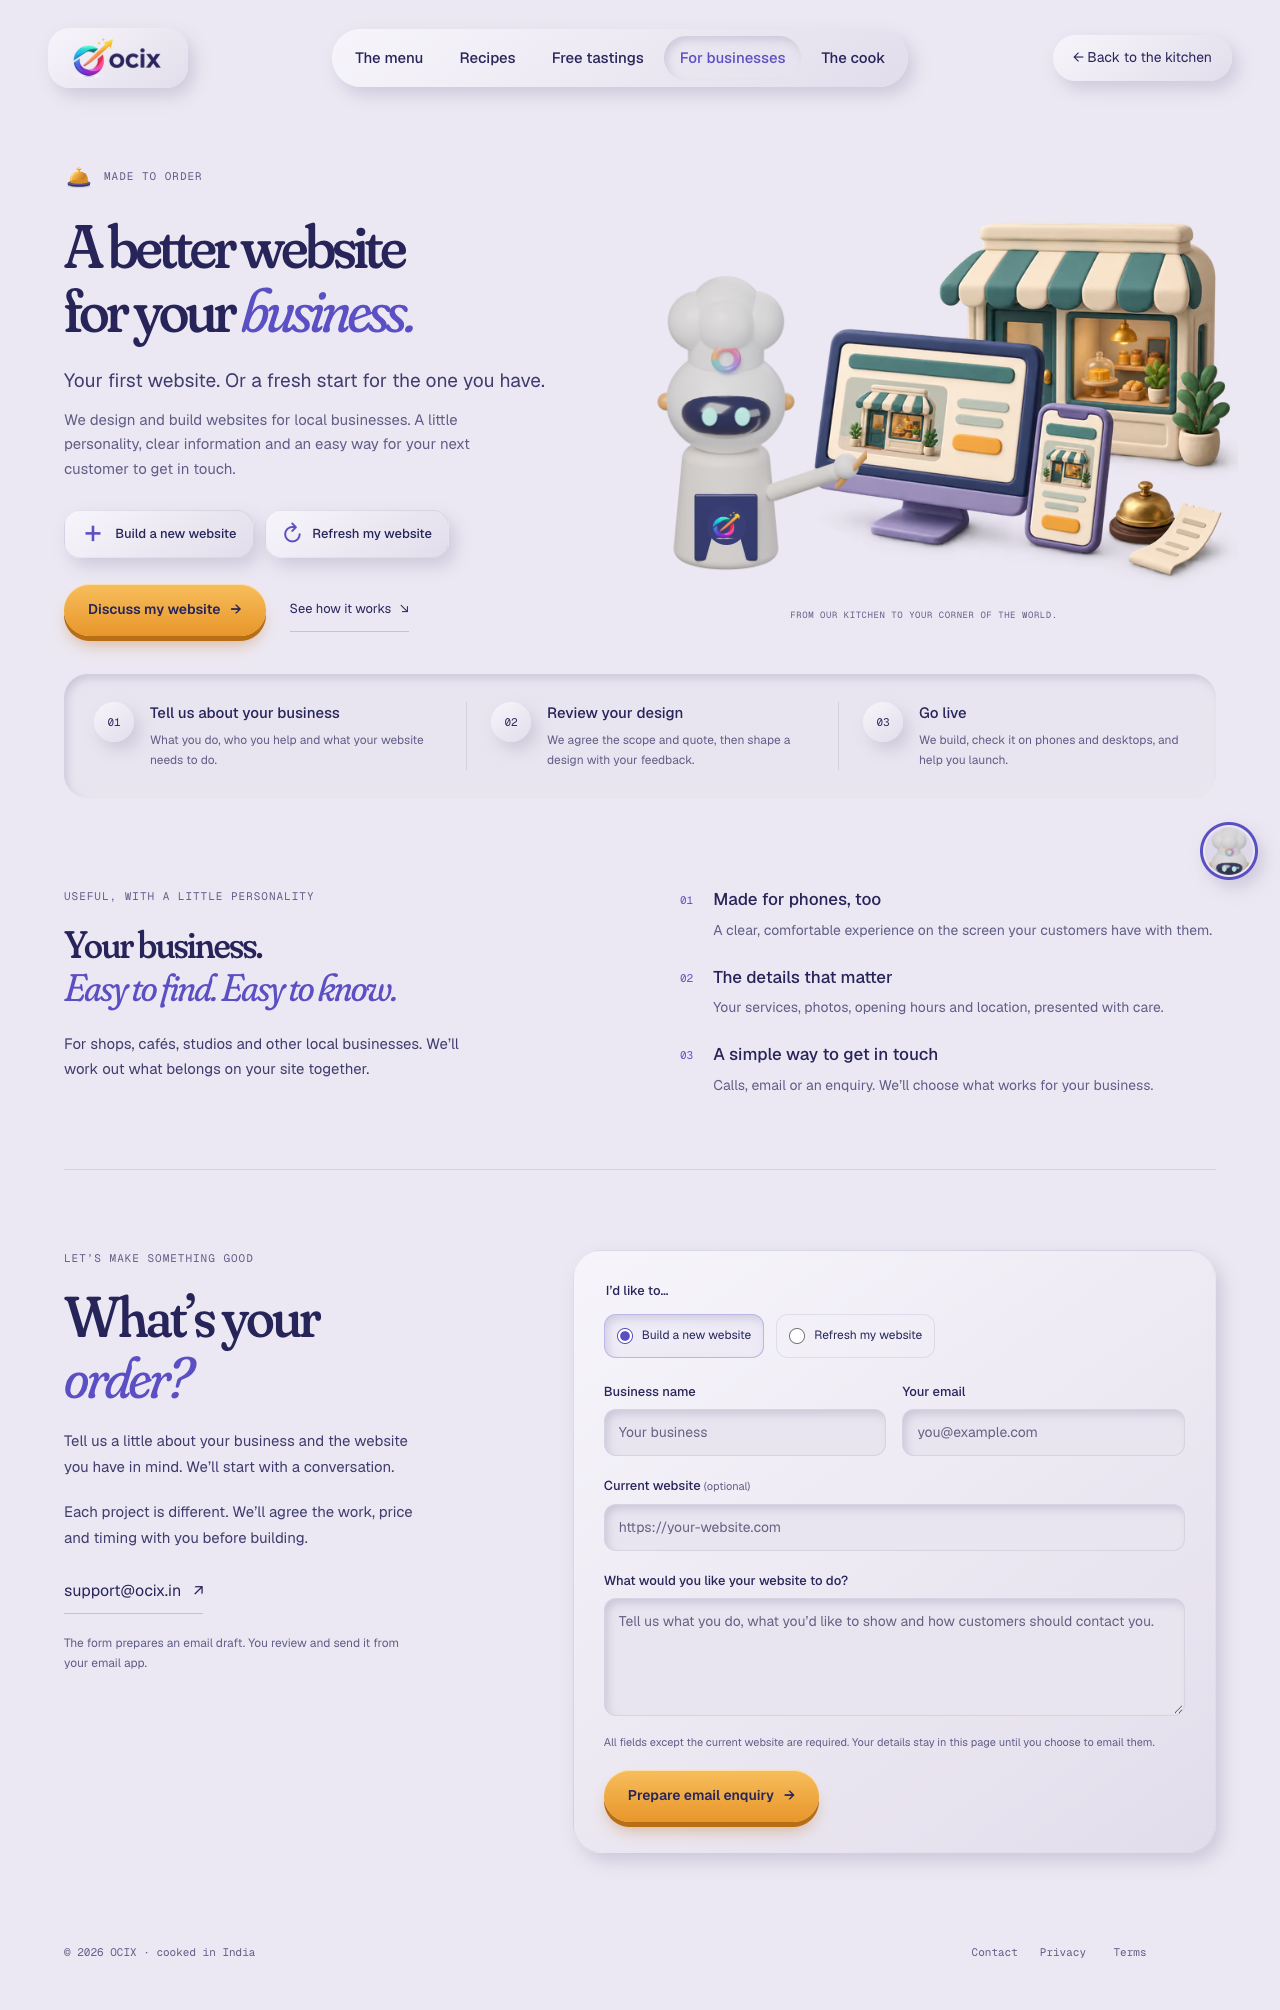
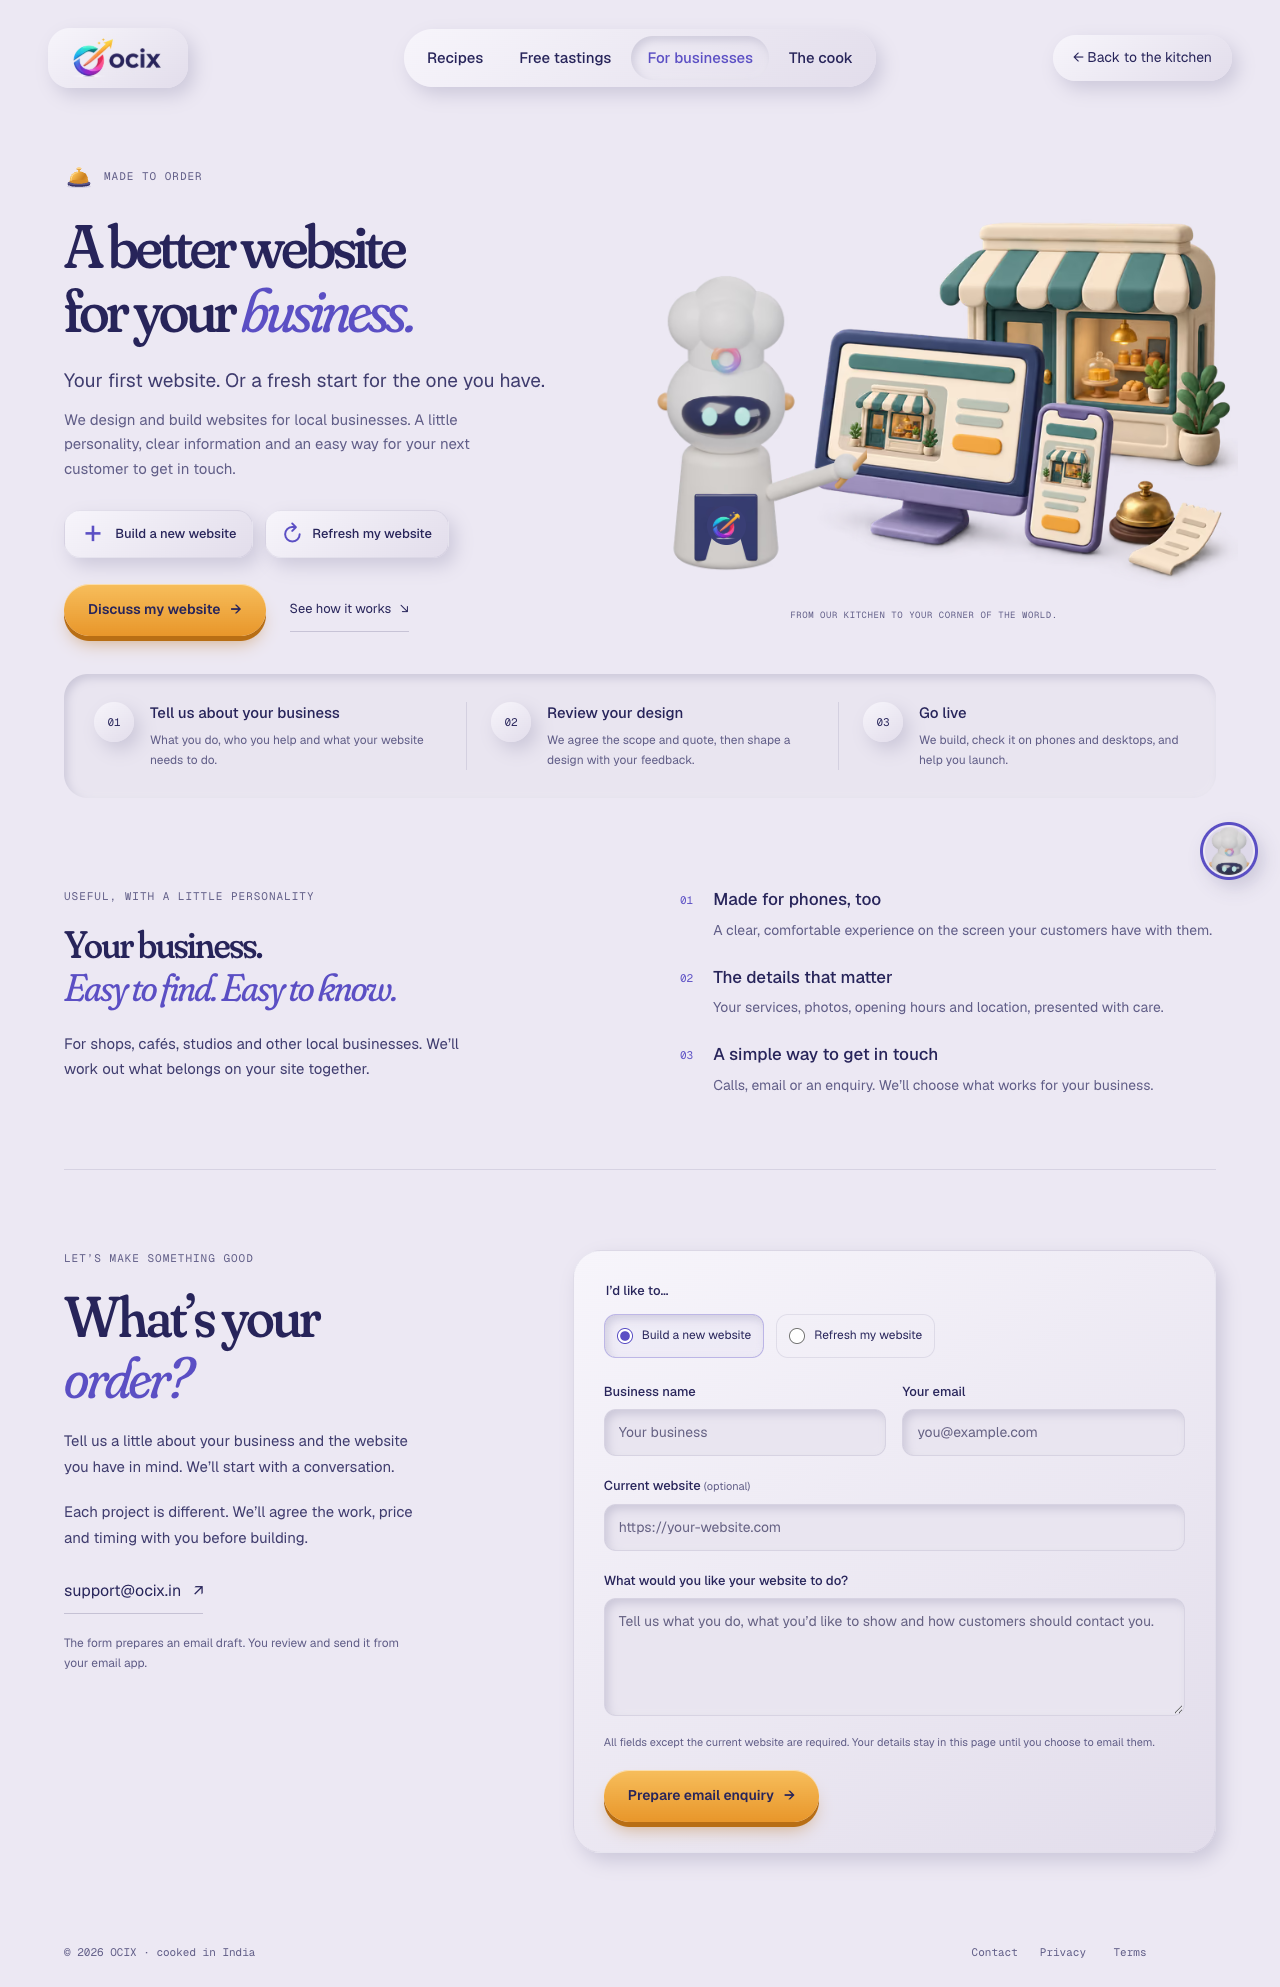
Center shared navbar and remove redundant menu link

diff --git a/src/app/components/SiteHeader.tsx b/src/app/components/SiteHeader.tsx
@@ -1,9 +1,9 @@
-const links = [['/#ocix-menu','The menu'],['/blog','Recipes'],['/tools','Free tastings'],['/services/websites','For businesses'],['/about','The cook']];
+const links = [['/blog','Recipes'],['/tools','Free tastings'],['/services/websites','For businesses'],['/about','The cook']];
 export function SiteHeader({ home = false, path = '/' }: { home?: boolean; path?:string }) {
   return <header className="site-header">
     <a className="brand neu" href="/" aria-label="OCIX home"><img src="/assets/ocix-logo.webp" alt="OCIX" width="188" height="96" /></a>
-    <nav className="desktop-nav neu" aria-label="Primary navigation">{links.map(([href,label])=><a href={href} key={href} aria-current={path===href?'page':undefined} data-menu-open={home && label==='The menu' ? true : undefined}>{label}</a>)}</nav>
+    <nav className="desktop-nav neu" aria-label="Primary navigation">{links.map(([href,label])=><a href={href} key={href} aria-current={path===href?'page':undefined}>{label}</a>)}</nav>
     {home ? <span className="kitchen-open neu-in"><i className="dot"/>Kitchen open</span> : <a className="back neu" href="/">← Back to the kitchen</a>}
-    <details className="mobile-menu"><summary className="neu" aria-label="Open kitchen menu"><span aria-hidden="true">☰</span></summary><nav className="glass" aria-label="Mobile navigation">{links.map(([href,label])=><a href={href} key={href} aria-current={path===href?'page':undefined} data-menu-open={home && label==='The menu' ? true : undefined}>{label}</a>)}<a href="/contact">Contact</a><a href="/privacy">Privacy</a><a href="/terms">Terms</a></nav></details>
+    <details className="mobile-menu"><summary className="neu" aria-label="Open kitchen menu"><span aria-hidden="true">☰</span></summary><nav className="glass" aria-label="Mobile navigation">{links.map(([href,label])=><a href={href} key={href} aria-current={path===href?'page':undefined}>{label}</a>)}<a href="/contact">Contact</a><a href="/privacy">Privacy</a><a href="/terms">Terms</a></nav></details>
   </header>;
 }

diff --git a/src/styles/business-entry.css b/src/styles/business-entry.css
@@ -1,4 +1,5 @@
 /* Custom orders share the kitchen's materials, with room for the business story. */
+@media(min-width:1001px){.site-header{display:grid;grid-template-columns:minmax(0,1fr) auto minmax(0,1fr)}.site-header>.brand{justify-self:start}.desktop-nav{justify-self:center}.site-header>:is(.kitchen-open,.back){justify-self:end}}
 .desktop-nav a[aria-current=page]{color:var(--italic);box-shadow:var(--inset);border-radius:999px}
 .home-business{display:none}
 .service-bell{position:absolute;left:22%;top:48%;width:7%;min-width:44px;z-index:3;display:grid;justify-items:center;transition:transform .2s}

diff --git a/design/kitchen/QA.md b/design/kitchen/QA.md
@@ -2,6 +2,10 @@
 
 Verification notes for the production static build. The original unit tests remain unchanged.
 
+## Navbar position and menu cleanup · 20 October 2026
+
+The desktop header uses equal flexible side columns around the navbar, keeping navigation centered across pages and widths even when the right-side control is hidden. Removed The menu from desktop and mobile navigation; the hero's Today’s menu remains available. All seven unit tests, nine service/header viewport checks and twenty studio page/viewport checks pass. The header checks assert center alignment and no collisions; mobile navigation checks follow the business link instead of the removed menu entry.
+
 ## Made-to-order websites · 20 October 2026
 
 Added `/services/websites` with original OCIX branding, a custom clay shop/device illustration, new/redesign choices, the process and a local email-draft enquiry to support@ocix.in. Desktop/mobile navigation and the contact page point to it; phone home has a visible business entry beside Today’s menu, and a small service bell sits on the kitchen counter. The product menu continues to show its four products.
